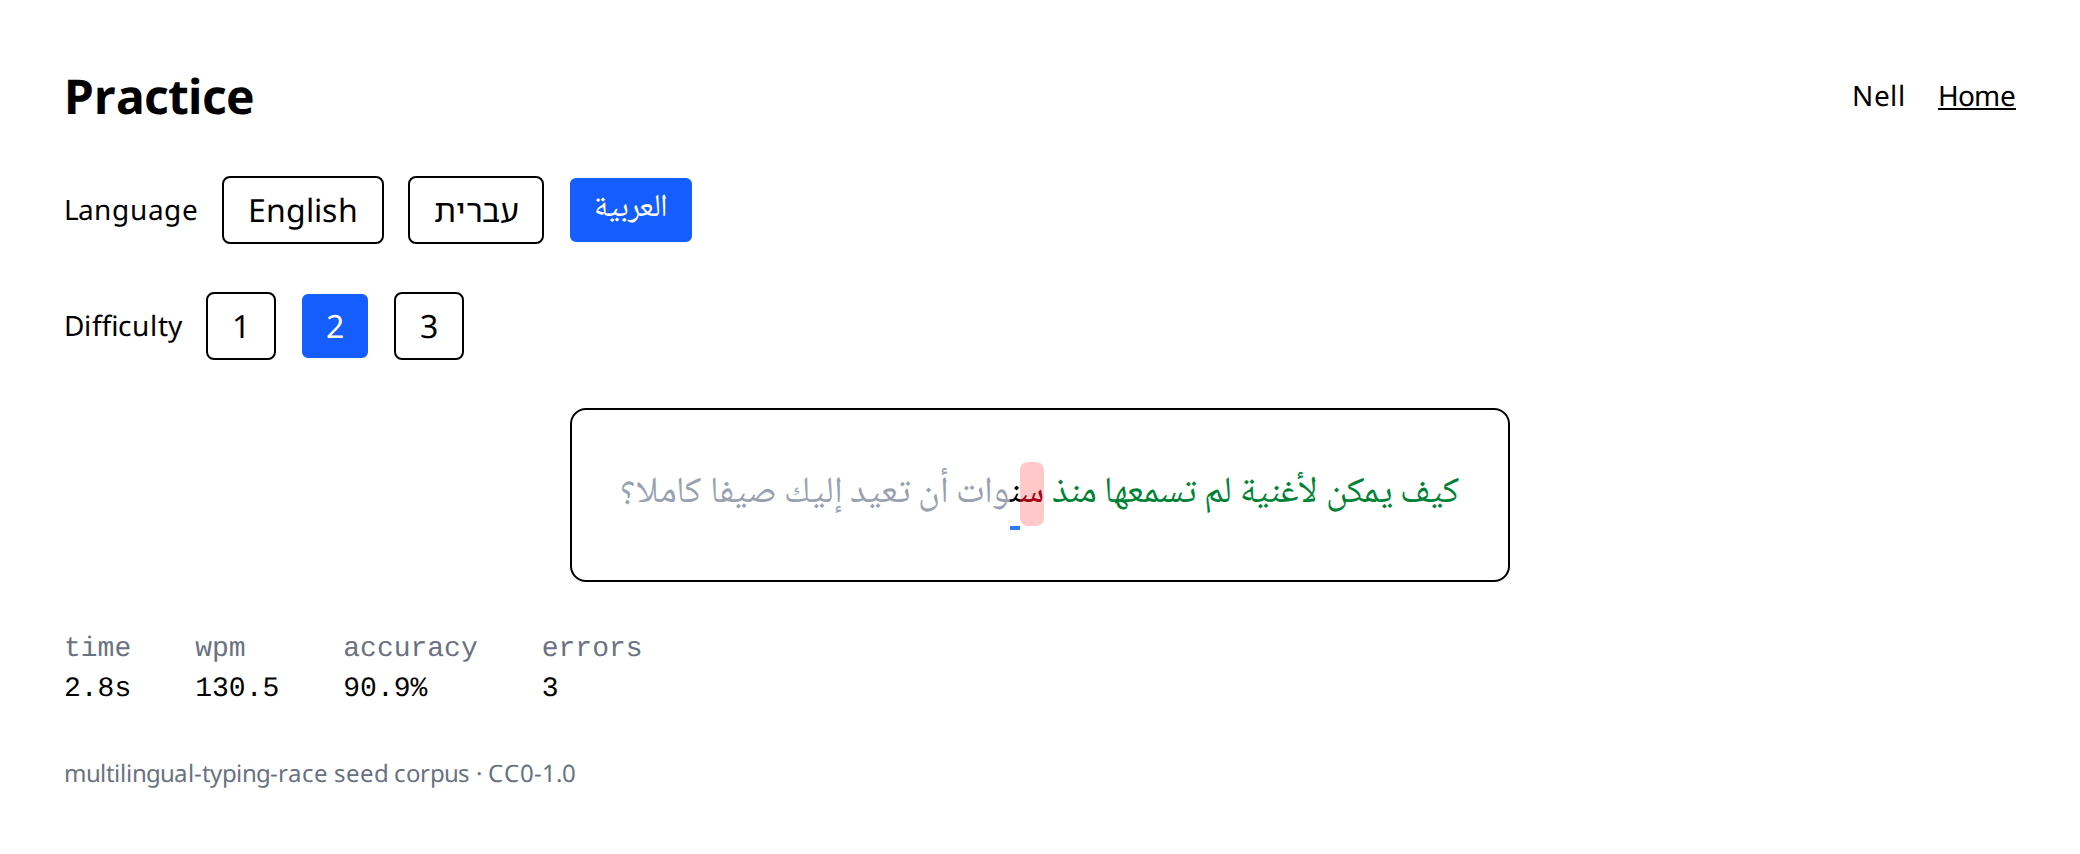
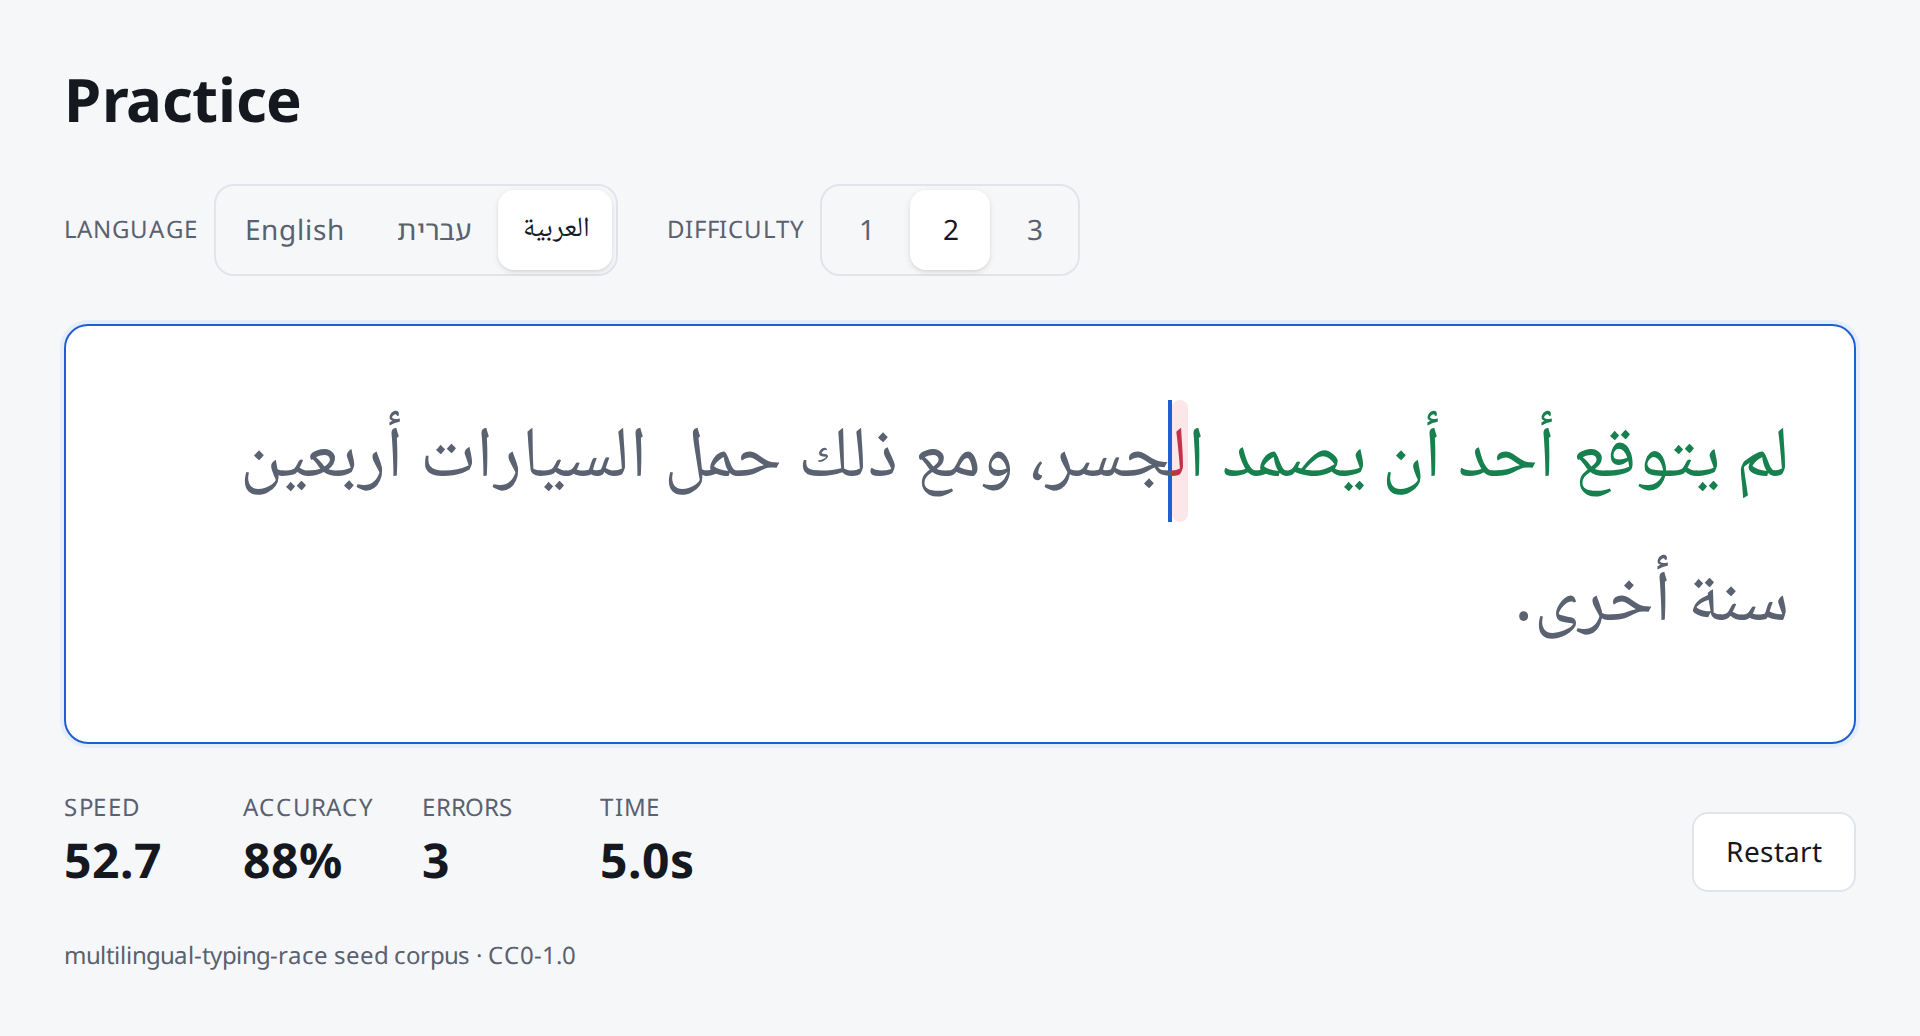
docs: v1.0 README and media on the restyled UI (#55)
The README leads with Keyrace, the tagline, the repo name and the live
URL, and the status is v1.0 complete. The visual pass leaves Planned;
interface translations stay there, stated as not built.

Media re-recorded on the restyled UI from real runs: a two-player Hebrew
race (lobby to results, 83 KB), Arabic practice with one wrong letter
still joined to its neighbour, the stats page with the Arabic heatmap,
and a 390px Hebrew phone screenshot. The race caption keeps the scripted
typing statement with the new paces and speeds. The repo layout lists
e2e/ and the CI job it runs in.

diff --git a/README.md b/README.md
@@ -1,4 +1,10 @@
-# Multilingual Typing Race
+# Keyrace
+
+**Type in English · עברית · العربية**
+
+The repository is named `multilingual-typing-race`; Keyrace is the product.
+
+**Live:** [web-production-1f908.up.railway.app](https://web-production-1f908.up.railway.app) · API health: [`/healthz`](https://api-production-57dab.up.railway.app/healthz)
 
 A TypeRacer-style typing trainer for **Hebrew, Arabic and English**: practice alone or race friends in real time, track WPM / accuracy / weak keys over time, leaderboards per language, daily challenge.
 
@@ -6,9 +12,7 @@ Typing trainers are built for Latin scripts, and the assumptions leak. Hebrew an
 
 **The server is the judge.** The browser never sends a score. It sends the raw keystroke log — `[t_ms, expected, typed]` per key — and the server replays it, recomputes every number, and decides whether the run counts at all. A client that lies has to lie in a log that replays to the target text at a human rhythm.
 
-**Live:** [web-production-1f908.up.railway.app](https://web-production-1f908.up.railway.app) · API health: [`/healthz`](https://api-production-57dab.up.railway.app/healthz)
-
-> Status: **functionally complete (v1.0).** Next: visual pass. Working today: practice in Hebrew, Arabic or English; race up to four friends (five players to a room) in real time over WebSockets; a daily challenge that is the same text for everyone and changes at midnight Israel time; and per-language stats — speed, accuracy, history, a keyboard heatmap of the keys you miss, and daily / weekly / all-time leaderboards. Every run is scored and validated server-side from the raw keystroke log. The interface itself is English-only for now (ADR-017); see [Planned](#planned).
+> Status: **v1.0 — complete.** Working today: practice in Hebrew, Arabic or English; race up to four friends (five players to a room) in real time over WebSockets; a daily challenge that is the same text for everyone and changes at midnight Israel time; and per-language stats — speed, accuracy, history, a keyboard heatmap of the keys you miss, and daily / weekly / all-time leaderboards; light and dark mode, and every page fits a 360px phone. Every run is scored and validated server-side from the raw keystroke log. The interface itself is English-only for now (ADR-017); see [Planned](#planned).
 
 ## How scoring works
 
@@ -29,17 +33,21 @@ What you see is what you type: every text is normalized once at import (niqqud a
 
 ## What it looks like
 
-A race recorded from the host's screen: two players, one Hebrew sentence, the text hidden until the countdown, both progress bars fed over one WebSocket each, and the places decided by the server from each player's keystroke log. **The typing is scripted**: a Playwright script drives two browser sessions, "Nell" and "Sami", at a fixed 75 ms and 105 ms per key — which is why the speeds (144.62 and 107.46 WPM) are faster than most people type. Everything else is the real stack: the server's countdown, the relay, the validator and the numbers it computed. A steady 75 ms rhythm is inside the human range, so the validator accepts it; it is built to reject pasted text and machine-speed input, not a script that types at a human pace (see [How scoring works](#how-scoring-works)).
+A race recorded from the host's screen: two players, one Hebrew sentence, the text hidden until the countdown, both progress bars fed over one WebSocket each, and the places decided by the server from each player's keystroke log. **The typing is scripted**: a Playwright script drives two browser sessions, "Nell" and "Sami", at a fixed 150 ms and 205 ms per key, which the server scored at 76.52 and 56.95 WPM. Everything else is the real stack: the server's countdown, the relay, the validator, and the places, speeds and times it computed — the same table on both players' screens. A steady rhythm at a human pace is inside what the validator accepts; it is built to reject pasted text and machine-speed input, not a script that types like a person (see [How scoring works](#how-scoring-works)).
 
-![A two-player race in Hebrew: the lobby, the countdown revealing the sentence, both progress bars advancing as the text turns green right to left, and the server's results with places and WPM](docs/img/race-hebrew.gif)
+![A two-player race in Hebrew: the lobby, the countdown revealing the sentence, both progress bars filling from the right as the text turns green right to left, and the server's results with places, WPM and times](docs/img/race-hebrew.gif)
 
-Practising in Arabic, mid-run (typed by the same kind of script, with deliberate mistakes). Green is behind the caret, the pink cell is a character typed wrong — and the letters stay joined across it, because the renderer is one `<span>` per character and the shaping is the browser's job (ADR-014). Speed, accuracy and errors update as you type; the numbers that count are the server's.
+Practising in Arabic, mid-run (typed by the same kind of script, with deliberate mistakes). Green is behind the caret; the red letter on a pink cell is the one typed wrong — the ل of الجسر — and it stays joined to the ج after it, because the renderer is one `<span>` per character and the shaping is the browser's job (ADR-014). A wrong letter is marked by background as well as colour, so it does not depend on telling red from green (ADR-032). Speed, accuracy and errors update as you type; the numbers that count are the server's.
 
-![The practice page mid-run in Arabic: a partly typed sentence with one mistyped letter, and live WPM, accuracy and error counts underneath](docs/img/practice-arabic.png)
+![The practice page mid-run in Arabic: a partly typed sentence with one mistyped letter still joined to its neighbour, and live speed, accuracy, errors and time underneath](docs/img/practice-arabic.png)
 
-The stats page, filled by scripted practice runs: best and average per language, the last runs as a trend, and the keys you miss on the layout you actually type on — here Arabic 101. A key with no data is dashed rather than coloured, so "never typed" cannot be read as "never missed".
+The stats page, filled by scripted practice runs: best and average per language, every recent run with its 7-run moving average, and the keys you miss on the layout you actually type on — here Arabic 101. A key typed fewer than 10 times is dashed rather than coloured, so "barely typed" cannot be read as "never missed" (ADR-025).
 
-![The stats page: per-language cards, a WPM trend line, and an Arabic keyboard heatmap where missed keys are shaded red](docs/img/stats-heatmap.png)
+![The stats page: per-language cards, a speed chart with each run and the 7-run average, and an Arabic keyboard heatmap where missed keys are shaded red](docs/img/stats-heatmap.png)
+
+On a phone, right to left: Hebrew practice at 390px, one wrong letter on screen. The text, the caret and the error mark follow the text's direction; the page around it stays put.
+
+<img src="docs/img/phone-hebrew.png" alt="The practice page on a 390px phone in Hebrew: the sentence typed from the right, green behind the caret, one wrong letter marked, and the live numbers below" width="300">
 
 ## Accounts
 
@@ -140,17 +148,17 @@ frontend/
   src/i18n/                     language table (labels, direction)
   src/lib/                      api.ts (typed API client), queries.ts (shared query definitions)
   src/ui/                       shared pieces: header, wordmark, button, segmented toggle, stat strip (ADR-032)
+e2e/            Playwright: the smoke journey and a two-browser race, against the built frontend
 infra/          docker-compose.yml
-docs/           DECISIONS.md (ADRs), rtl-notes.md, race-protocol.md
-.github/        CI workflow (backend + frontend jobs)
+docs/           DECISIONS.md (ADRs), rtl-notes.md, race-protocol.md, img/ (the pictures above)
+.github/        CI workflow (backend, frontend and e2e jobs)
 ```
 
 ## Planned
 
-Not built yet. Everything above this section describes what is in the repo today.
+Not built. Everything above this section describes what is in the repo today.
 
-- **M6 — the visual pass.** The current interface is deliberately plain: correct behaviour, default styling. M6 is the design of every page, dark mode included.
-- **Interface translations.** Hebrew and Arabic labels with a mirrored layout, deferred to M6 so the strings are translated once against the final UI (ADR-017). The text language and the interface language stay independent: a Hebrew speaker can practise English typing in a Hebrew interface.
+- **Interface translations.** Hebrew and Arabic labels with a mirrored layout. ADR-017 deferred them until the interface was final; v1.0 ships with that interface in English only. The text language and the interface language stay independent: a Hebrew speaker could practise English typing in a Hebrew interface.
 - **Everything else that was considered and deliberately left out** — a background worker, OAuth, race replay, lenient Arabic matching, materialized views — is listed with its reasoning in ADR-027.
 
 ## Docs
